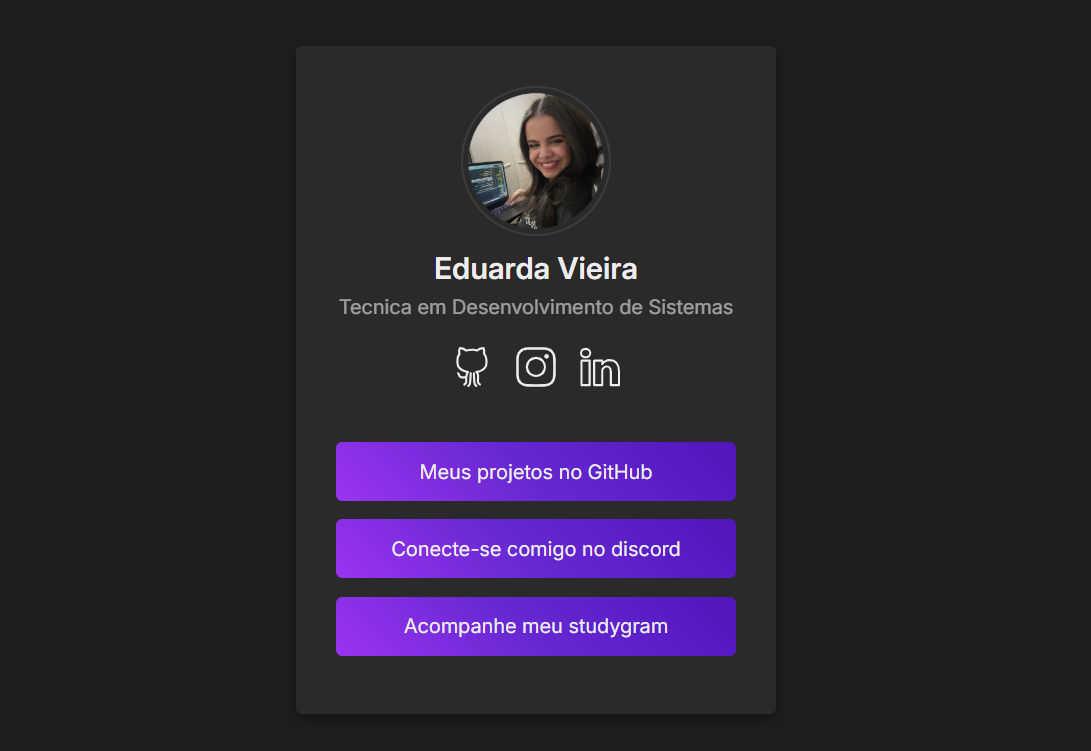
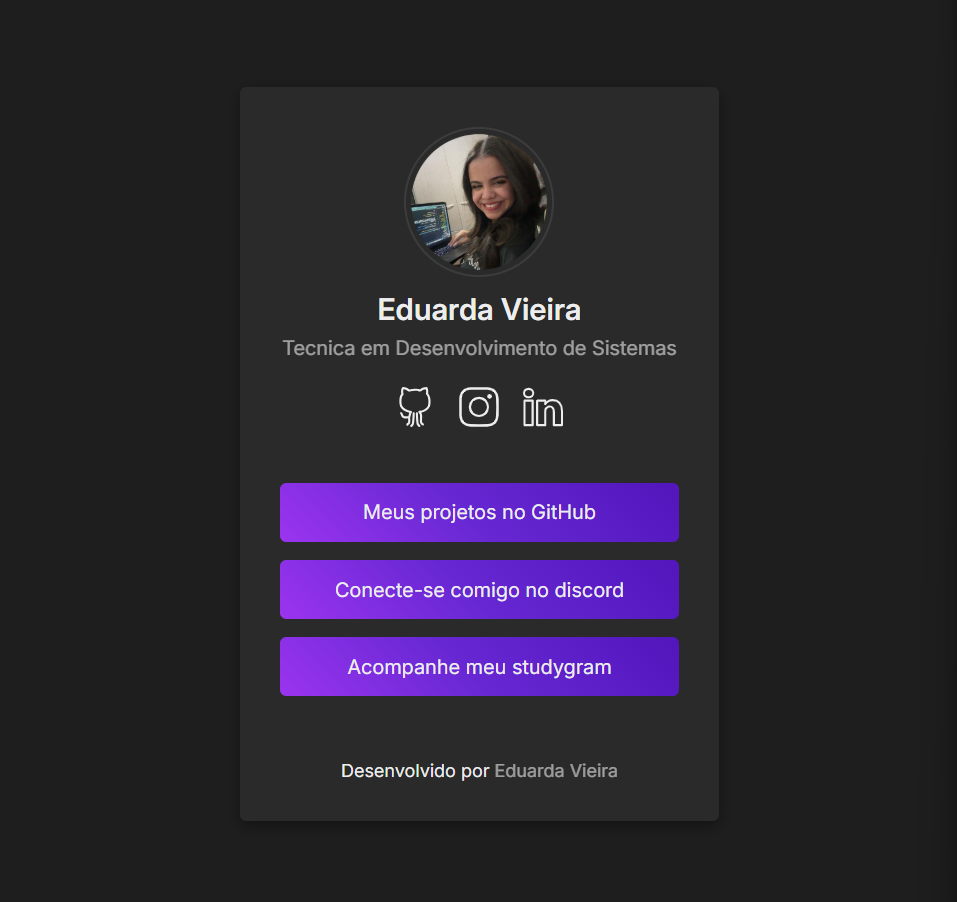
update: readme

Changed region(s): [[0.2727, 0.3063, 0.7273, 0.8881], [0.4242, 0.1225, 0.5758, 0.3063]]

diff --git a/README.md b/README.md
@@ -1,33 +1,59 @@
-# Anotações sobre React
+# Projeto Link-in-bio
 
-## Como criar o projeto
+<img src="projeto.png" width="280px" alt="">
 
-No terminal, digitar:
 
+## Descrição
+
+O **Link-in-bio** é um site simples, mas funcional, que permite exibir links para suas redes sociais e outros perfis na internet. O objetivo principal desse projeto é proporcionar uma compreensão dos conceitos iniciais do **React**, **TypeScript** e **Styled Components**.
+
+Foi desenvolvido como parte de um tutorial prático do [Artur Bomtempo](https://github.com/arturbomtempo-dev/link-in-bio-react-youtube-tutorial), onde ele ensina, passo a passo, como construir esse tipo de aplicação.
+
+## Tecnologias Utilizadas
+
+- **React**: Biblioteca para construir interfaces de usuário interativas.
+- **TypeScript**: Superset do JavaScript que adiciona tipagem estática ao código.
+- **Styled Components**: Biblioteca para escrever CSS dentro do JavaScript, criando componentes de estilo de forma modular e reutilizável.
+
+## Funcionalidades
+
+- Exibe um perfil de links personalizáveis para redes sociais (Instagram, GitHub, LinkedIn, etc.).
+- Interface limpa e responsiva.
+- Utiliza React com TypeScript para garantir maior organização e escalabilidade do código.
+
+## Instruções de Execução
+
+1. Clone este repositório:
+   ```bash
+   git clone https://github.com/seu-usuario/link-in-bio.git
+   ```
+
+2. Navegue até a pasta do projeto:
+   ```bash
+   cd link-in-bio
+   ```
+
+3. Instale as dependências:
+   ```bash
+   npm install
+   ```
+
+4. Inicie o servidor de desenvolvimento:
+   ```bash
+   npm run dev
+   ```
+
+   Acesse o projeto em seu navegador através de [http://localhost:5173](http://localhost:5173/).
+
+## Link para o Tutorial
+
+O desenvolvimento deste projeto foi baseado na [playlist do Artur Bomtempo no YouTube](https://youtube.com/playlist?list=PLeBlAOvjkM5jyuQ0c1w2e3CYH3HB4DBOd). Siga as aulas para aprender passo a passo como construir essa aplicação.
+
+## Contribuição
+
+Se você quiser contribuir para este projeto, sinta-se à vontade para fazer um **fork**, enviar **pull requests** ou abrir **issues** com sugestões de melhorias!
+
+## Licença
+
+Este projeto está licenciado sob a [MIT License](LICENSE).
 ```
-npm create vite@latest link-bio
-```
-
-Escolha React depois Typescript
-
-Colocar os arquivos criados na pasta, dentro da sua original (clique no shift depois no primeiro e no ultimo arquivo e arraste pra fora da pasta)
-
-Instale os pacotes
-
-Biblioteca do prettier
-
-```
-npm i prettier --save-dev
-```
-
-Instalar styled-components
-```
-npm i styled-components
-```
-
-Biblioteca de icones
-```
-npm install react-icons
-```
-
-https://react-icons.github.io/react-icons/

diff --git a/anotacoes.md b/anotacoes.md
@@ -1,0 +1,33 @@
+# Anotações sobre React
+
+## Como criar o projeto
+
+No terminal, digitar:
+
+```
+npm create vite@latest link-bio
+```
+
+Escolha React depois Typescript
+
+Colocar os arquivos criados na pasta, dentro da sua original (clique no shift depois no primeiro e no ultimo arquivo e arraste pra fora da pasta)
+
+Instale os pacotes
+
+Biblioteca do prettier
+
+```
+npm i prettier --save-dev
+```
+
+Instalar styled-components
+```
+npm i styled-components
+```
+
+Biblioteca de icones
+```
+npm install react-icons
+```
+
+https://react-icons.github.io/react-icons/
